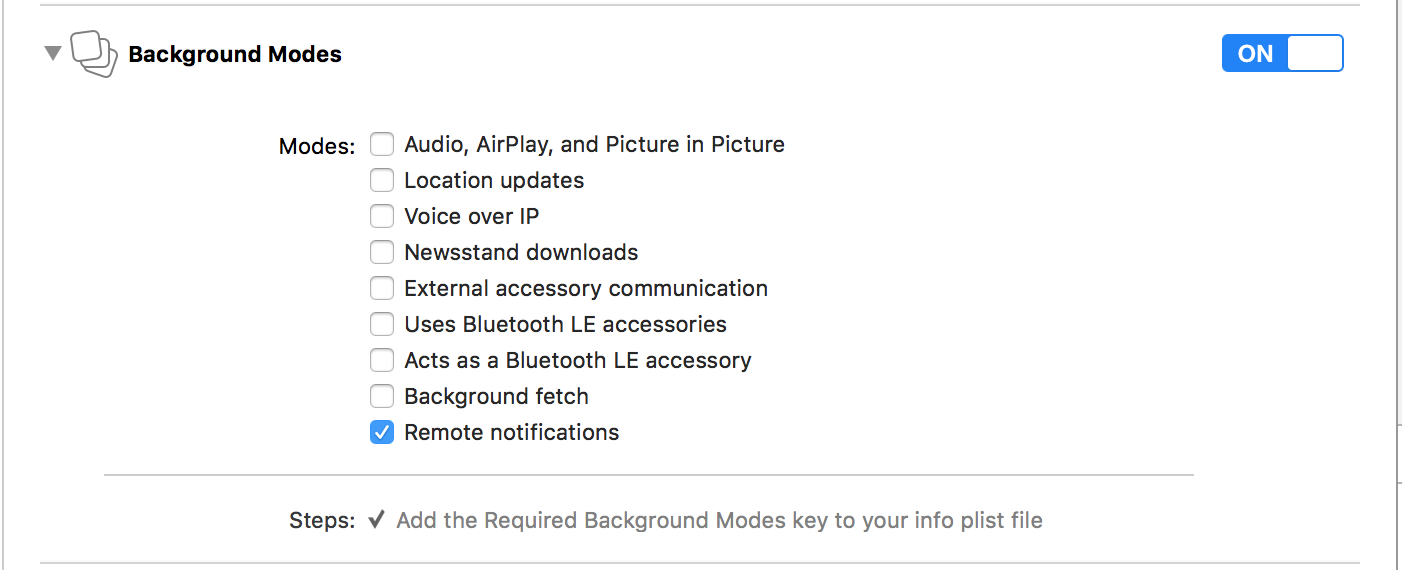
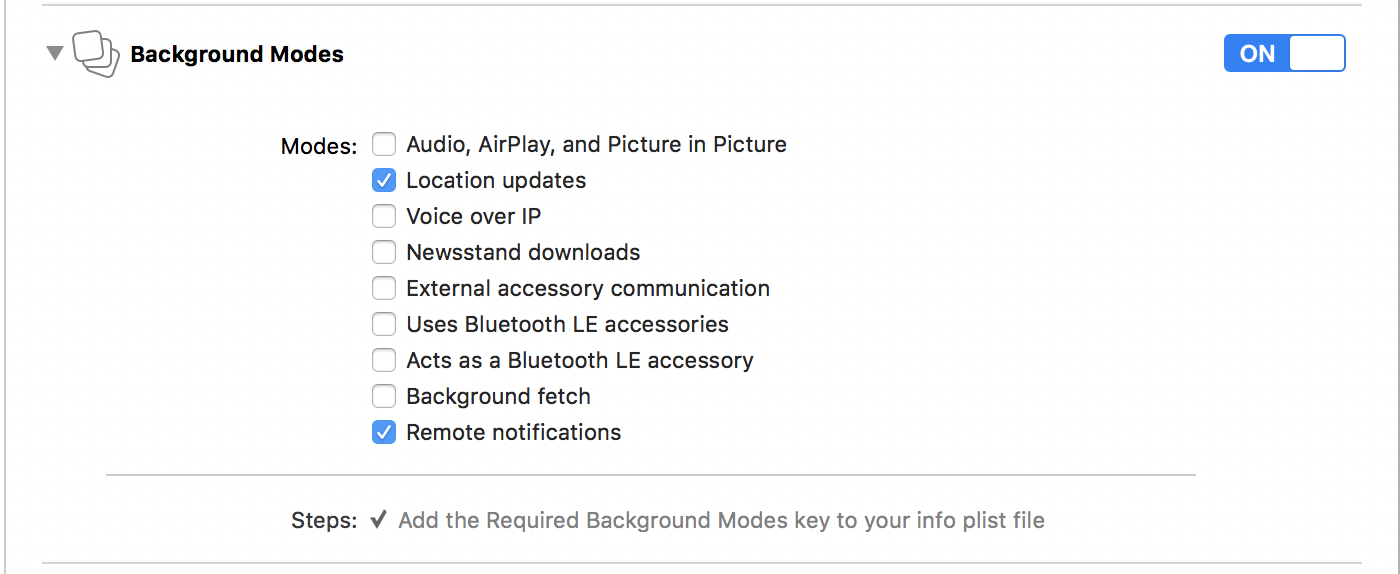
Update documentation to reflect changes to notifications

diff --git a/notifications.md b/notifications.md
@@ -5,8 +5,8 @@ layout: home
 # Messages and Notifications
 
 The Shout to Me platform allows you to enable your app to receive communications sent from Shout to Me's Broadcaster
-Application.  Messages and notifications are two separate concepts in the Shout to Me system.  A **Message** is text or
-audio content that is sent to mobile users to convey a communication.  A **Notification** (which is taken from the mobile
+Application.  Messages and notifications are two separate concepts in the Shout to Me system.  A **Message** is text,
+audio or video content that is sent to mobile users to convey a communication.  A **Notification** (which is taken from the mobile
 technology term "Push Notification") is the delivery mechanism used to transport a Message.
 
 ## Messages
@@ -14,10 +14,12 @@ The SDK provides a Messages class that can be used to retrieve Messages for the 
 unread messages.
 
 ```objc
-// Request all of the users messages for the current user.
+// Request all of the messages for the current user.
 - (void)requestForMessagesWithDelegate:(id<MessagesDelegate>)delegate;
+
 // Request the count of unread messages for the current user.
 - (void)requestForUnreadMessageCountWithDelegate:(id<MessagesDelegate>)delegate;
+
 // Request a specific message by Id
 - (void)requestForMessage:(NSString *)messageId completionHandler:(void (^)(STMMessage *message,
                                                                             NSError *error))completionHandler;
@@ -62,11 +64,10 @@ unread messages.
 #pragma mark - Messages Delegates
 - (void)MessagesResults:(NSArray *)arrayMessages
 {
-    // Do something with arrayMessages, load them into a table view data source...ect
+    // Do something with arrayMessages, load them into a table view data source, etc.
 
     // Update the user's LastReadMessages date
-    // If this is not updated, the call to requestForUnreadMessageCountWithDelegate will return
-    // the same number even after the user views their messages.
+    // Call this method to ensure that requestForUnreadMessageCountWithDelegate stays in sync with the user's experience
     [[STM signIn] setLastReadMessages:[NSDate date] withDelegate:self];
 }
 ```
@@ -109,7 +110,7 @@ unread messages.
 
 #pragma mark - Messages Delegates
 - (void)UnreadMessageResults:(NSNumber *)count {
-    // Do something with count, like setting a label's text, ect...
+    // Do something with count like setting a label's text, etc.
 }
 ```
 
@@ -121,9 +122,10 @@ The Shout to Me SDK supports receiving push notifications from the Shout to Me p
   notifications system:
 
 1. A message is sent from the Shout to Me Broadcaster Application
-2. The message is delivered to the mobile app as a Apple Push Notification Service notification
-3. The Shout to Me SDK receives the notification and calls a listener
-4. A listener in the client app receives the call and can take further action using the data
+2. The message is delivered to the client app as an Apple Push Notification Service notification
+3. The client app passes the notification received from iOS to the Shout to Me SDK
+4. The Shout to Me SDK processes the notification data and calls a listener if applicable
+5. A listener in the client app receives the call and can take further action using the data
 
 ### Amazon AWS configuration
 The notification systems uses Amazon's AWS SNS platform.  As such, the SDK includes the AWS iOS SDK and must be configured properly to work. Add the following sections to your info.plist file.  (Note: If you already use the AWS iOS SDK and have conflicting values in your file, contact Shout to Me support.)
@@ -131,14 +133,19 @@ The notification systems uses Amazon's AWS SNS platform.  As such, the SDK inclu
 ![AWS configuration](images/aws-config.png)
 
 ### Enable Project Capabilities
-In your project Capabilities tab in Xcode, enable both Push Notifications and Background Modes > Remote Notifications.
+In your project Capabilities tab in Xcode, enable both Push Notifications and Background Modes > Location Updates and Remote Notifications.
+(Note: The Location Updates mode allows the Shout to Me SDK to manage location based messages.)
 
 ![Push Notifications in Xcode](images/push-notifications.png)
 
 ![Background Modes in Xcode](images/background-modes.png)
 
 ### APNs Certificate
-Pushing notifications requires the creation of an APNs certificate that is subsequently included in the app.  This certificate must also be registered with the AWS SNS service.  Contact Shout to Me to complete this process.  For more information, visit the [Apple Notification Programming Guide](https://developer.apple.com/library/content/documentation/NetworkingInternet/Conceptual/RemoteNotificationsPG/APNSOverview.html#//apple_ref/doc/uid/TP40008194-CH8-SW1).
+Pushing notifications requires the creation of an APNs certificate that is subsequently included in the app's provisioning profile.
+Shout to Me will also use this certificate to register with its push notification platform.  Once these two items are done,
+you will receive a push notification App ID that will be used to register for push notifications.
+Contact Shout to Me to complete this process.
+For more information, visit the [Apple Notification Programming Guide](https://developer.apple.com/library/content/documentation/NetworkingInternet/Conceptual/RemoteNotificationsPG/APNSOverview.html#//apple_ref/doc/uid/TP40008194-CH8-SW1).
 
 ### Enabling/Disabling Notifications
 To enable or disable notifications at the user's request, add code that subscribes/unsubscribes to/from the specified channel.  The follow code sample shows how to accomplish this.
@@ -168,6 +175,8 @@ To enable or disable notifications at the user's request, add code that subscrib
 
 ### Notification Events
 
+To integrate with the Shout to Me notification system, follow these instructions:
+
 #### Implement the `STMDelegate` inside `AppDelegate.h`
 
 ```objc
@@ -178,19 +187,52 @@ To enable or disable notifications at the user's request, add code that subscrib
 @end
 ```
 
-#### Call `setupNotificationsWithApplication:application` to setup notifications inside of `didFinishLaunchingWithOptions` of the AppDelegate.
+#### Include the following in your `didFinishLaunchingWithOptions` callback.
+First, call the `setupPushNotificationsWithAppId:(NSString *)pushNotificationAppId`
+method with your App ID (see APNs Certificate above) to register to receive notifications from Shout to Me's system.
+Then register to receive remote notifications in the normal iOS fashion.  Your specific registration may vary depending
+on other types of notifications you receive, however, a simple registration is shown below.  (Note: The following iOS
+notification code is for iOS 10 and above.  You may need additional code to support iOS versions below iOS 10.)
+
 
 ```objc
 - (BOOL)application:(UIApplication *)application didFinishLaunchingWithOptions:(NSDictionary *)launchOptions {
-    [STM setupNotificationsWithApplication:application];
+
+    [STM setupPushNotificationsWithAppId:@"YOUR_APP_ID"];
+
+    // Register for remote iOS notifications
+    UNAuthorizationOptions options = UNAuthorizationOptionAlert + UNAuthorizationOptionSound + UNAuthorizationOptionBadge;
+    UNUserNotificationCenter *center = [UNUserNotificationCenter currentNotificationCenter];
+    center.delegate = self;
+    [center requestAuthorizationWithOptions:(options) completionHandler:^(BOOL granted, NSError * _Nullable error) {
+        if (!granted)
+        {
+            NSLog(@"One or more notification permissions are not granted.");
+        }
+        else if (!error)
+        {
+            [[UIApplication sharedApplication] registerForRemoteNotifications];
+            NSLog(@"Push registration success.");
+        }
+        else
+        {
+            NSLog(@"Push registration FAILED");
+            NSLog(@"ERROR: %@", error);
+        }
+    }];
 }
 ```
 
-#### Call related Shout to Me notification methods within the Remote Notification callbacks inside of the AppDelegate.
+#### Implement the following iOS lifecycle events to pass required data to the Shout to Me SDK.
 
 ```objc
 - (void)application:(UIApplication*)application didRegisterForRemoteNotificationsWithDeviceToken:(NSData*)deviceToken{
     [STM didRegisterForRemoteNotificationsWithDeviceToken: deviceToken];
+}
+
+- (void)application:(UIApplication*)application didFailToRegisterForRemoteNotificationsWithError:(NSError*)error{
+    // There is no data to pass to the Shout to Me SDK, however, this method is help to troubleshoot push notification registration failures.
+    NSLog(@"Failed to register with error : %@", error);
 }
 
 - (void)application:(UIApplication *)application didReceiveRemoteNotification:(NSDictionary *)userInfo fetchCompletionHandler:(void (^)(UIBackgroundFetchResult))completionHandler {
@@ -198,18 +240,19 @@ To enable or disable notifications at the user's request, add code that subscrib
 }
 ```
 
-#### Implement the `STMNotificationReceived` to listen for Shout to Me notifications.
+#### Implement the `STMNotificationsReceived` method to listen for Shout to Me notifications.
 
 ```objc
--(void)STMNotificationReceived:(NSDictionary *)notification {
-    // In this case we are posting a location notification so we can handle it in our app.
+-(void)STMNotificationsReceived:(NSSet *)notification {
 
-    UILocalNotification *localNotification = [[UILocalNotification alloc] init];
-    localNotification.alertTitle = [Utils stringFromKey:@"title" inDictionary:notification];
-    localNotification.alertBody = [Utils stringFromKey:@"body" inDictionary:notification];
-    localNotification.userInfo = notification;
-
-    [[UIApplication sharedApplication] scheduleLocalNotification:localNotification];
+    // Each set can include 1 or more notifications.  Each notification is represented as a dictionary with the following fields:
+    // @"body":             Typically the body of a UI notification
+    // @"category":         @"MESSAGE_CATEGORY" for message notifications
+    // @"channel_id":       Your channel ID - necessary for apps containing multiple channels
+    // @"conversation_id":  The Shout to Me conversation ID which can be used to retrieve more detailed data from the Shout to Me API
+    // @"title":            Typically the title of a UI notification
+    // @"type":             @"conversation message" for notifications directed at a whole channel or @"user message" for messages directed to a specific user
+    // @"message_id":       The ID of the message stored in the Shout to Me system.
 }
 ```
 

diff --git a/setup.md b/setup.md
@@ -47,10 +47,9 @@ You will need to [contact Shout to Me](http://www.shoutto.me/contact) in order t
 
   // Initialize Shout To Me SDK, Replace with your Shout to Me token
   [STM initWithAccessToken:@"STM_ACCESS_TOKEN" andApplication:application andDelegate:self];
-  // Optional, this will setup notifications from ShoutToMe (additional steps are required)
+
+  // Optional, this will setup notifications from ShoutToMe (additional steps are required. See the Messages and Notifications section in documentation)
   [STM setupNotificationsWithApplication:application pushNotificationAppId:@"PUSH_NOTIFICATION_APP_ID"];
-  // Initialize the STM Location manager, this will ask for the required permissions. Or you can ask for the required location permissions and call this after.
-  [STMLocation initAll];
 
   // Set your channel Id
   [STM setChannelId:@"CHANNEL_ID"];
@@ -70,7 +69,7 @@ Add the following to your Info.plist to request permission to record.
 
 [NSMicrophoneUsageDescription](https://developer.apple.com/library/content/documentation/General/Reference/InfoPlistKeyReference/Articles/CocoaKeys.html#//apple_ref/doc/uid/TP40009251-SW25)
 
-Set the value to something like: "Your microphone is used to allow you to shout to the station."
+Set the value to something like: "Your microphone is used to allow you to send audio to us."
 
 ### Location
 
@@ -86,7 +85,7 @@ To enable location permissions, add the following to your Info.plist.
 [NSLocationAlwaysUsageDescription](https://developer.apple.com/library/content/documentation/General/Reference/InfoPlistKeyReference/Articles/CocoaKeys.html#//apple_ref/doc/uid/TP40009251-SW18)
 
 Both are strings and should be set to something like: "Your location is used to let the station know what part of
-town you are in and so you can receive geo-targeted messages."
+town you are in when you shout and to allow you to receive location-specific messages."
 
 You then need to request permission from the user to use their location. You can use your own location manager to do this or you can use the Shout to Me SDK Location Manager.
 

diff --git a/sample-app.md b/sample-app.md
@@ -17,13 +17,13 @@ below to create your own sample app.
     [NSLocationAlwaysUsageDescription](https://developer.apple.com/library/content/documentation/General/Reference/InfoPlistKeyReference/Articles/CocoaKeys.html#//apple_ref/doc/uid/TP40009251-SW18)
 
     Both are strings and should be set to something like: "Your location is used to let the station know what part of
-    town you are in and so you can receive geo-targeted messages."
+    town you are in when you shout and to allow you to receive location-specific messages."
 
 * Add the record audio key.
 
     [NSMicrophoneUsageDescription](https://developer.apple.com/library/content/documentation/General/Reference/InfoPlistKeyReference/Articles/CocoaKeys.html#//apple_ref/doc/uid/TP40009251-SW25)
 
-    Set to something like: "Your microphone is used to allow you to shout to the station."
+    Set to something like: "Your microphone is used to allow you to send audio to us."
 
 ## Import "STM.h" to the header of AppDelegate.h:
 
@@ -43,10 +43,9 @@ below to create your own sample app.
 
   // Initialize Shout To Me SDK, Replace with your Shout to Me token
   [STM initWithAccessToken:@"STM_ACCESS_TOKEN" andApplication:application andDelegate:self];
-  // Optional, this will setup notifications from ShoutToMe (additional steps are required)
+
+  // Optional, this will setup notifications from ShoutToMe (additional steps are required. See the Messages and Notifications section in documentation)
   [STM setupNotificationsWithApplication:application pushNotificationAppId:@"PUSH_NOTIFICATION_APP_ID"];
-  // Initialize the STM Location manager, this will ask for the required permissions. Or you can ask for the required location permissions and call this after.
-  [STMLocation initAll];
 
   // Set your channel Id
   [STM setChannelId:@"CHANNEL_ID"];
